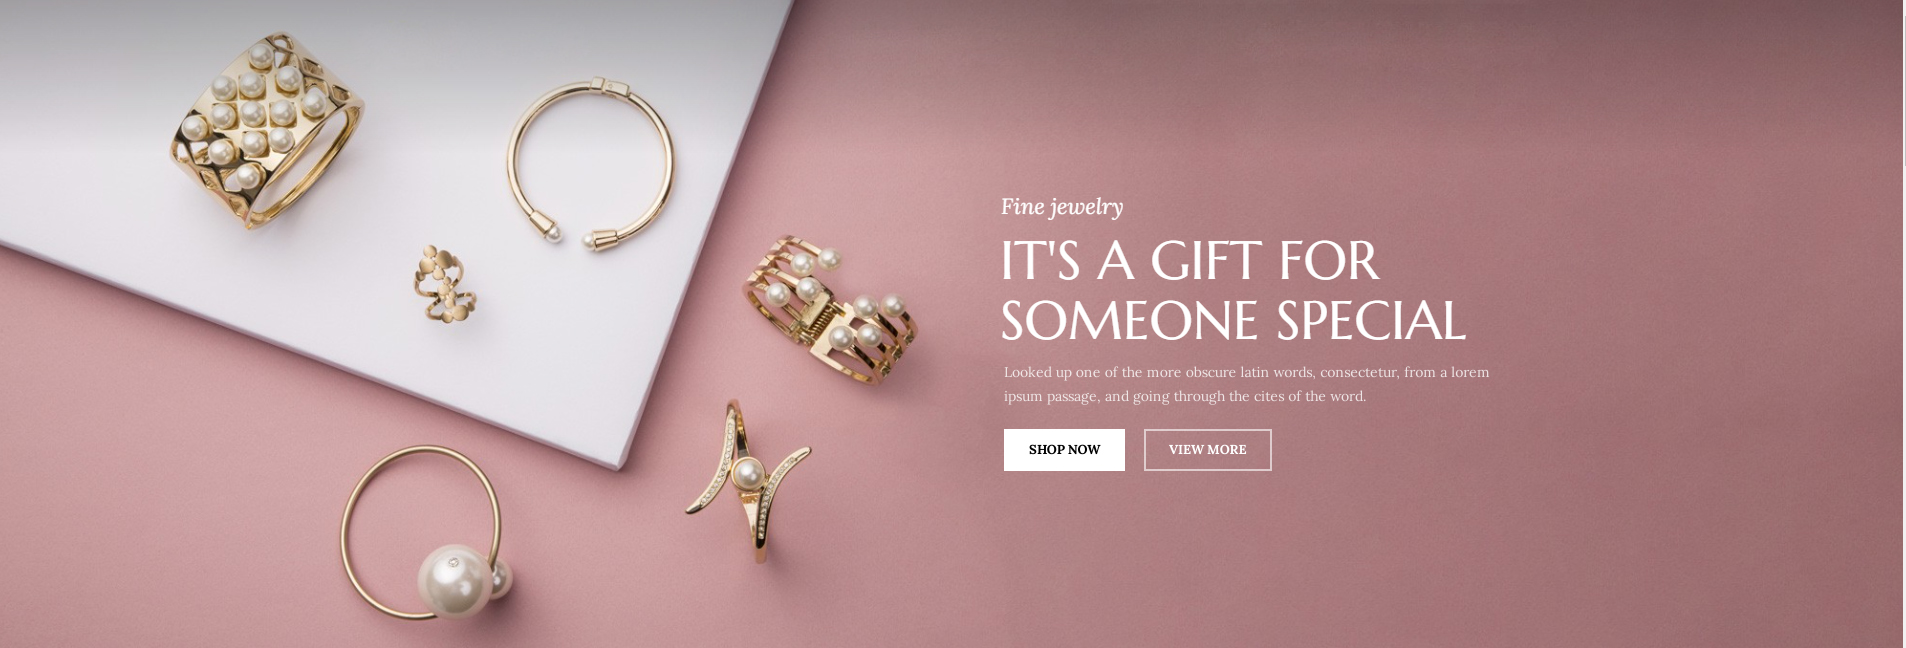
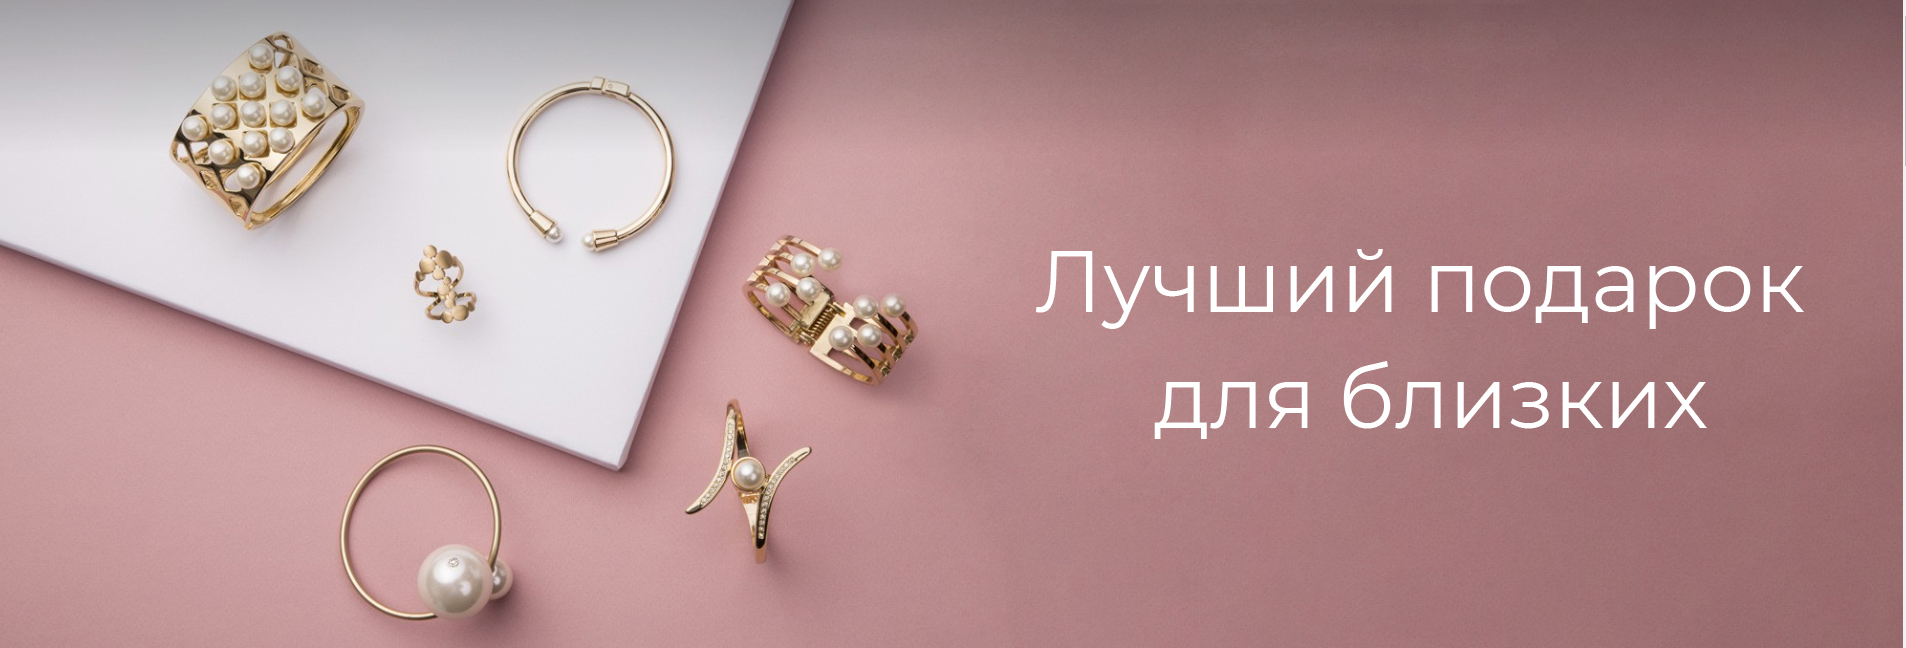
work with layout homepage

Changed region(s): [[0.5262, 0.3704, 0.9596, 0.5247], [0.5262, 0.5556, 0.8977, 0.7407], [0.5262, 0.3086, 0.5881, 0.3395]]

diff --git a/resources/assets/userssources/sass/style.scss b/resources/assets/userssources/sass/style.scss
@@ -83,9 +83,12 @@ body {
       flex-direction: column;
       height: 640px;
       width: 100%;
-      background-image: url("/public/assets/userssources/img/slider/05.jpg");
+      background-image: url("/public/assets/userssources/img/slider/06.jpg");
       background-size: 100%;
       background-repeat: no-repeat;
+      -webkit-box-shadow: 0 100px 30px -6px rgba(34, 60, 80, 0.2) inset;
+      -moz-box-shadow: 0 100px 30px -6px rgba(34, 60, 80, 0.2) inset;
+      box-shadow: 0 100px 30px -6px rgba(34, 60, 80, 0.2) inset;
     }
     &__navbar {
       //border: $border;

diff --git a/webpack.mix.js b/webpack.mix.js
@@ -23,12 +23,9 @@ mix.sass('resources/assets/userssources/sass/style.scss', 'public/assets/usersso
 });
 
 
-// mix.js('resources/js/test.js', 'public/js')
-//     .sass('resources/sass/style.scss', 'public/css/style.css')
-//     .browserSync({
-//         proxy: 'http://comp/'
-//     });
-
+// mix.less('resources/assets/userssources/less/mainless.less', 'public/assets/userssources/css/mainless.css').options({
+//     processCssUrls: false
+// });
 
 
 

diff --git a/public/assets/userssources/css/style.css b/public/assets/userssources/css/style.css
@@ -28,9 +28,10 @@ body {
   flex-direction: column;
   height: 640px;
   width: 100%;
-  background-image: url("/public/assets/userssources/img/slider/05.jpg");
+  background-image: url("/public/assets/userssources/img/slider/06.jpg");
   background-size: 100%;
   background-repeat: no-repeat;
+  box-shadow: 0 100px 30px -6px rgba(34, 60, 80, 0.2) inset;
 }
 
 .homepage__navbar {
